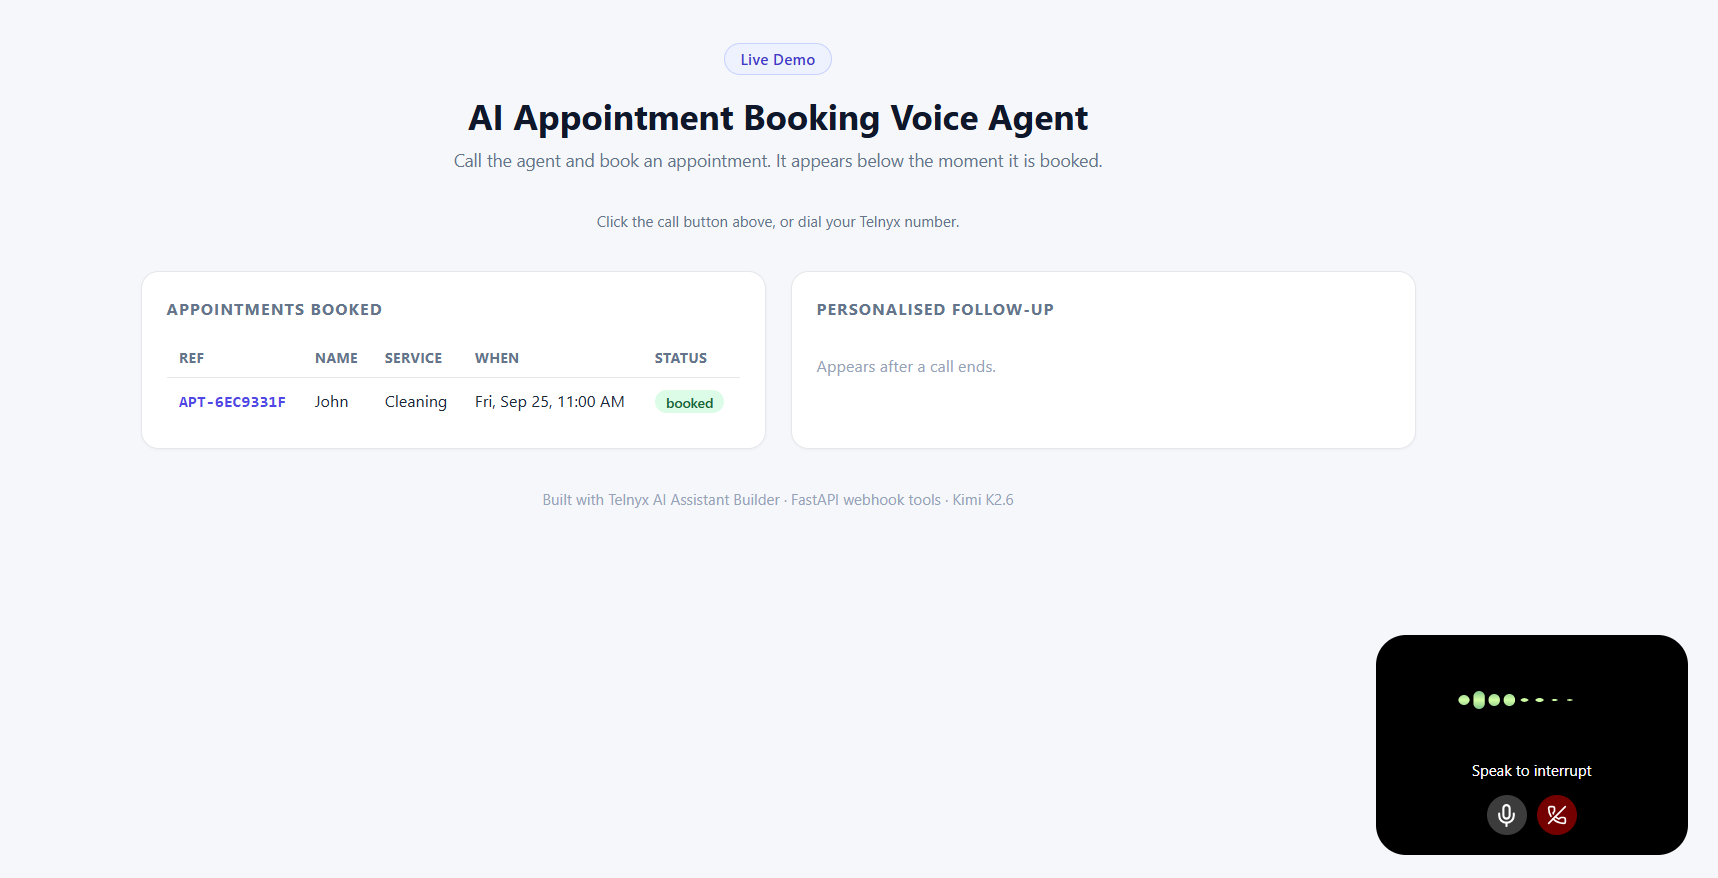
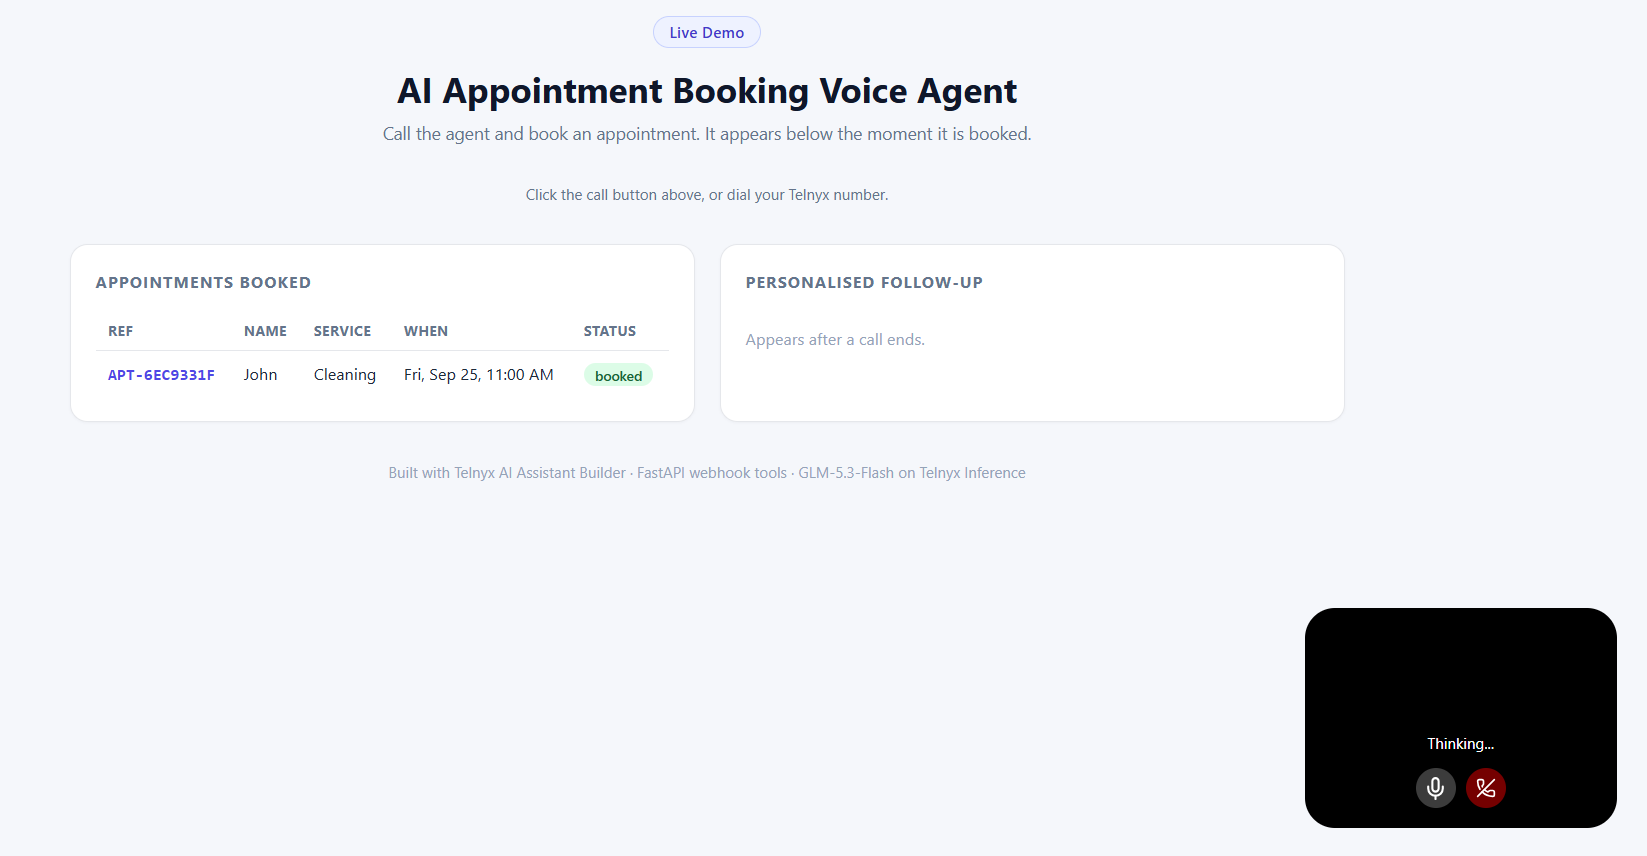
feat(audio): switch voice agent and follow-up to GLM-5.3-Flash on Telnyx Inference

diff --git a/audio/ai_appointment_booking_voice_agent/demo.html b/audio/ai_appointment_booking_voice_agent/demo.html
@@ -74,7 +74,7 @@
   </main>
 
   <p class="footer">
-    Built with Telnyx AI Assistant Builder &middot; FastAPI webhook tools &middot; Kimi K2.6
+    Built with Telnyx AI Assistant Builder &middot; FastAPI webhook tools &middot; GLM-5.3-Flash on Telnyx Inference
   </p>
 
   <script>

diff --git a/audio/ai_appointment_booking_voice_agent/appointment_agent/config.py b/audio/ai_appointment_booking_voice_agent/appointment_agent/config.py
@@ -27,7 +27,7 @@ class Settings:
     # Telnyx (cloud). The API key is used for Inference and optional SMS.
     telnyx_api_key: str = os.getenv("TELNYX_API_KEY", "")
     inference_base_url: str = os.getenv("INFERENCE_BASE_URL", "https://api.telnyx.com/v2/ai/openai")
-    inference_model: str = os.getenv("INFERENCE_MODEL", "moonshotai/Kimi-K2.6")
+    inference_model: str = os.getenv("INFERENCE_MODEL", "zai-org/GLM-5.3-Flash")
 
     # Business profile, injected into the agent prompt at call start.
     business_name: str = os.getenv("BUSINESS_NAME", "Brightsmile Dental")

diff --git a/audio/ai_appointment_booking_voice_agent/README.md b/audio/ai_appointment_booking_voice_agent/README.md
@@ -55,8 +55,8 @@ the CRM dashboard, and the Inference-generated follow-up.
 |---|---|
 | Voice and telephony | Telnyx Voice AI + a Telnyx phone number ($0.05/min bundled) |
 | Agent | A single Telnyx AI Assistant with webhook tools |
-| LLM | `moonshotai/Kimi-K2.6` via Telnyx (the recommended voice model) |
-| Inference (follow-up) | Telnyx Inference, OpenAI-compatible endpoint, `moonshotai/Kimi-K2.6` |
+| LLM | `zai-org/GLM-5.3-Flash` on Telnyx Inference (via the assistant's custom OpenAI-compatible endpoint) |
+| Inference (follow-up) | Telnyx Inference, OpenAI-compatible endpoint, `zai-org/GLM-5.3-Flash` |
 | Tools and webhooks | FastAPI + Uvicorn |
 | Calendar | Hand-rolled iCalendar (`.ics`), no dependency |
 | CRM store and dashboard | SQLite + a single server-rendered HTML page |
@@ -87,8 +87,16 @@ paste it where the steps say `https://YOUR-NGROK.ngrok.io`.
 - Left sidebar -> **AI Suite** -> **Assistants** -> **Create**. Start from a blank
   canvas (templates like Lead Qualification also exist).
 - **Name:** `Appointment Agent`.
-- **Model:** select `moonshotai/Kimi-K2.6` (the Recommended voice model in the
-  dropdown). Only third-party models (OpenAI, etc.) need an API key here.
+- **Model:** this project runs on `zai-org/GLM-5.3-Flash`, hosted on Telnyx
+  Inference. It is not in the native model dropdown yet (that lists GLM-5.2), so
+  select it through Telnyx's own inference endpoint using **Use Custom LLM** on
+  the Agent tab:
+  - **Base URL:** `https://api.telnyx.com/v2/ai/openai`
+  - **API Key:** your Telnyx API key, saved as an **Integration Secret**
+  - **Model Name:** `zai-org/GLM-5.3-Flash`
+
+  Because the Base URL is Telnyx's own endpoint and the model runs on Telnyx GPUs,
+  this is Telnyx-hosted GLM inference, not an external provider.
 - **Instructions:**
 
 ```
@@ -277,10 +285,11 @@ ai_appointment_booking_voice_agent/
 
 ## Customising
 
-- **Swap the model.** Set the assistant model in the portal from the models your
-  account offers. `moonshotai/Kimi-K2.6` is the recommended voice model; other
-  self-hosted options like `Qwen/Qwen3-235B-A22B` or `zai-org/GLM-5.2` also work.
-  The follow-up model is `INFERENCE_MODEL` in `.env`.
+- **Swap the model.** The agent uses `zai-org/GLM-5.3-Flash` on Telnyx Inference
+  via the custom OpenAI-compatible endpoint (see Step 2). To change it, edit the
+  Custom LLM Model Name in the portal, and set `INFERENCE_MODEL` in `.env` for the
+  follow-up. Any Telnyx-hosted model works (for example `zai-org/GLM-5.2` is in the
+  native dropdown if you prefer not to use the custom endpoint).
 - **Change the business.** `BUSINESS_NAME`, `BUSINESS_HOURS`, `BUSINESS_SERVICES`,
   and the open/close hours all live in `.env`. No code change.
 - **Use a real calendar.** `scheduling.py` is deliberately isolated. Point
@@ -294,8 +303,9 @@ ai_appointment_booking_voice_agent/
 Telnyx bundles Voice AI (SIP + STT + LLM + TTS) at $0.05 per minute, with
 telephony itemised on top (inbound from $0.0032 per minute). A real five-minute
 call that books an appointment lands around $0.30, so $25 in signup credits is
-roughly 80 booking calls. Telnyx Inference is up to 75% less than closed-model
-APIs.
+roughly 80 booking calls. The LLM runs on `zai-org/GLM-5.3-Flash` on Telnyx
+Inference, up to 75% less than closed-model APIs, so the model is a small slice of
+that per-call cost. Check the real figure on the Telnyx Usage page after a call.
 
 ## Resources
 
